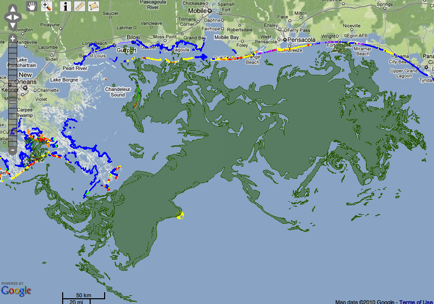
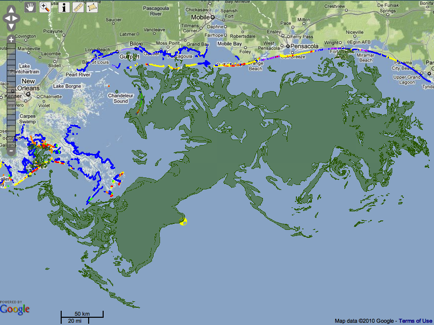
Update map snap

diff --git a/public/index.html b/public/index.html
@@ -113,8 +113,8 @@
       <tr>
         <td width="450">
           <div id="map">
-            <a target = "_blank" href="http://gomex.erma.noaa.gov/erma.html#x=-87.96204&y=29.33909&z=8&layers=497+4891+4809+4880"><img src="images/map.half.png" alt="Map of the Gulf of Mexico with NESDIS Experimental Marine Pollution Surveillance Daily Composite and Shoreline Cleanup Assesment Technique (SCAT) overlays for 26 Jun 2010"/></a><br/>
-            <span class="caption" style="white-space:nowrap;">Snapshot of shoreline cleanup and marine pollution as of 26 Jun 2010 from <a href="http://GeoPlatform.gov/gulfresponse">GeoPlatform.gov/gulfresponse</a></span>
+            <a target = "_blank" href="http://gomex.erma.noaa.gov/erma.html#x=-87.69287&y=29.35345&z=8&layers=497+4944+4951+5018"><img src="images/map.half.png" alt="Map of the Gulf of Mexico with NESDIS Experimental Marine Pollution Surveillance Daily Composite and Shoreline Cleanup Assesment Technique (SCAT) overlays for 27 Jun 2010"/></a><br/>
+            <span class="caption" style="white-space:nowrap;">Snapshot of shoreline cleanup and marine pollution as of 27 Jun 2010 from <a href="http://GeoPlatform.gov/gulfresponse">GeoPlatform.gov/gulfresponse</a></span>
           </div>
         </td><td>
           <ul class="stats">
